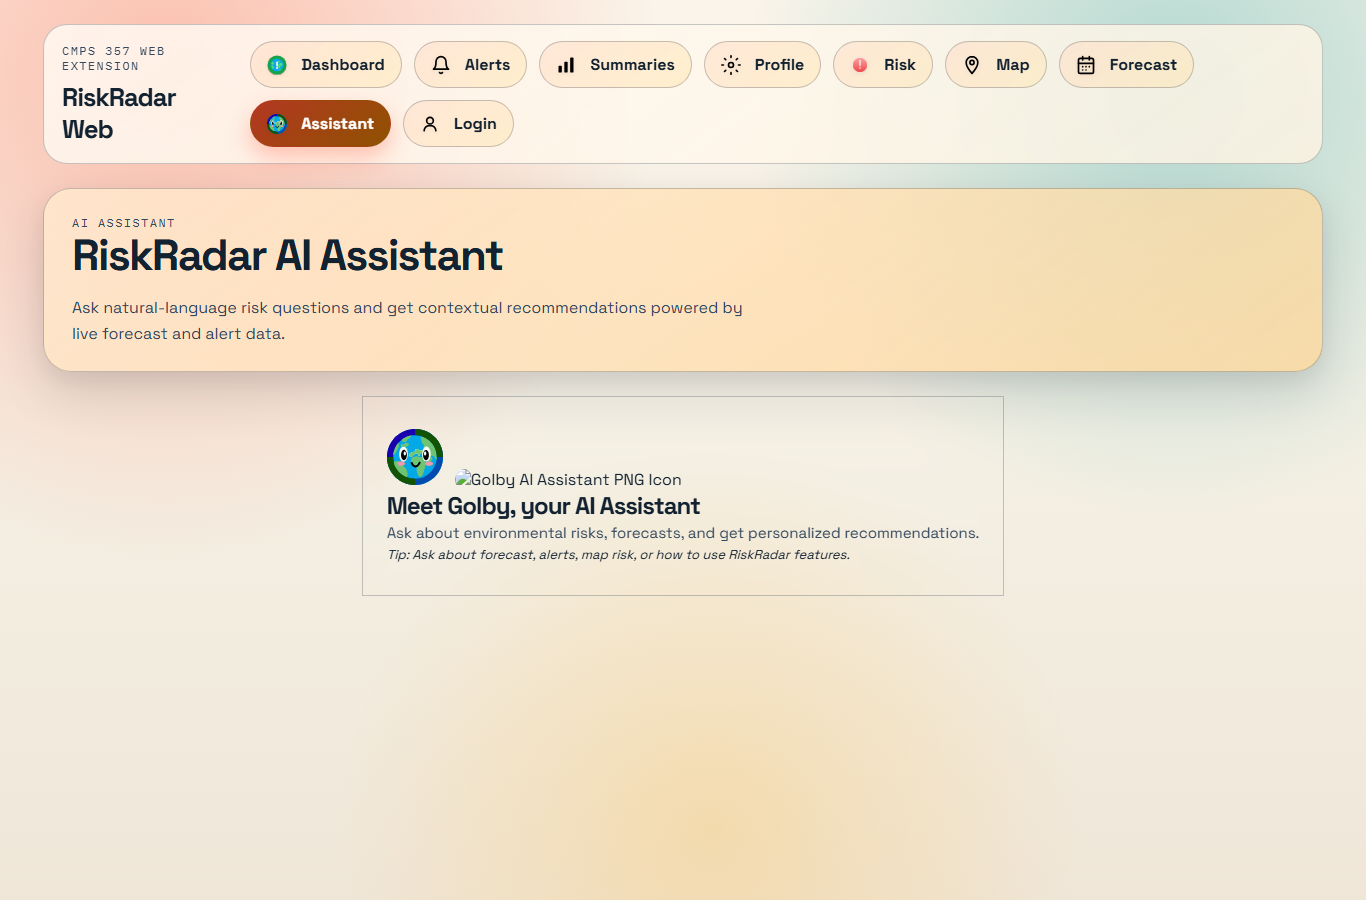
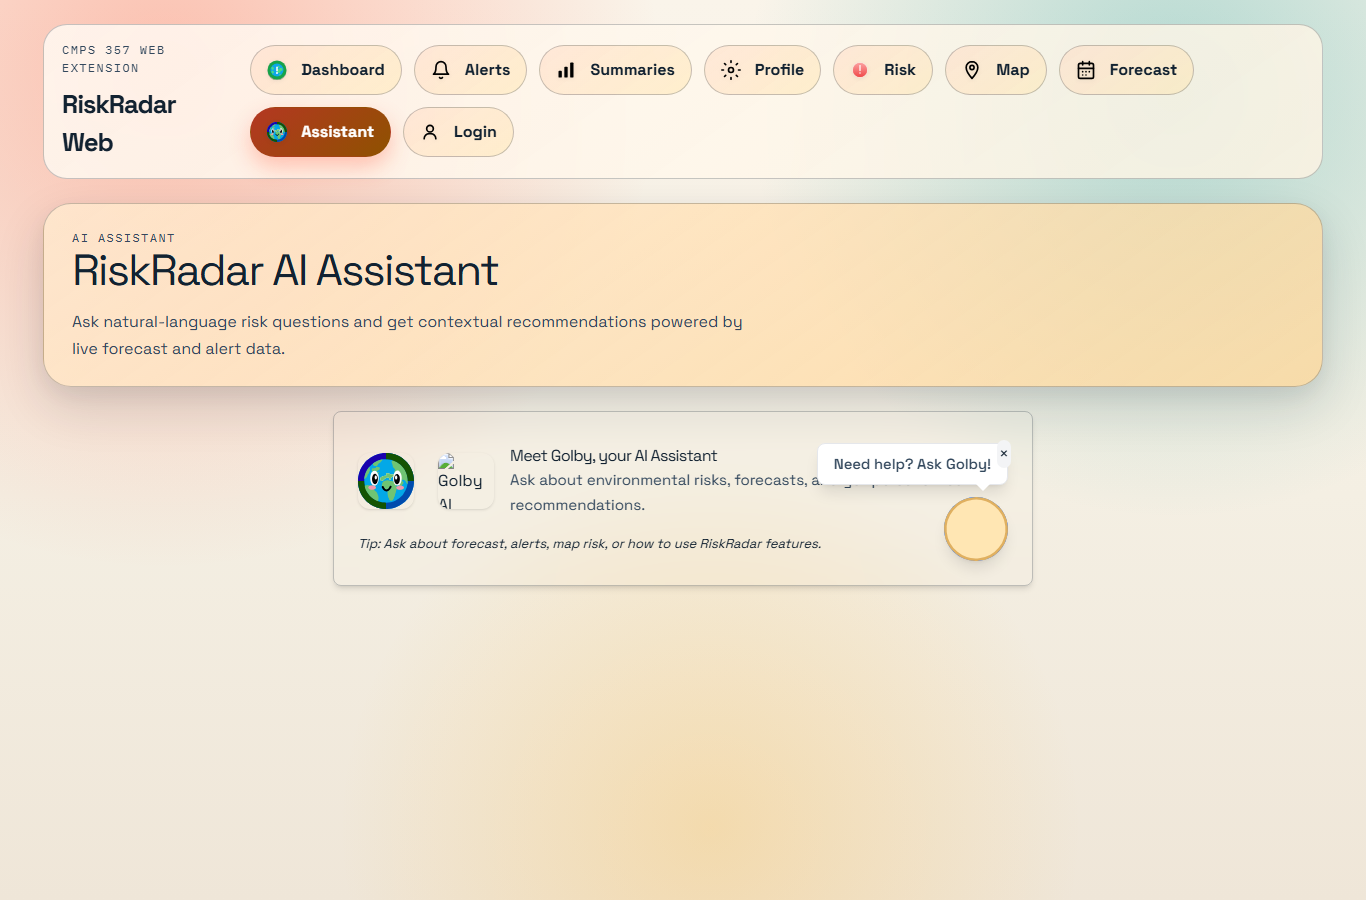
Demo 3

Changed region(s): [[0.0307, 0.0311, 0.9839, 0.4356], [0.246, 0.4667, 0.7379, 0.6533], [0.3997, 0.1556, 0.9839, 0.2489]]

diff --git a/frontend/web/tests/demo/demo_journey.js b/frontend/web/tests/demo/demo_journey.js
@@ -13,6 +13,7 @@ const SESSION_COOKIE_NAME = 'riskradar_session';
 function parseArgs(argv) {
   const args = {
     baseUrl: 'http://localhost:8000',
+    apiBaseUrl: null,
     headless: true,
     pauseOnStep: false,
     screenshots: true,
@@ -23,6 +24,9 @@ function parseArgs(argv) {
     const token = argv[i];
     if (token === '--base-url' && argv[i + 1]) {
       args.baseUrl = argv[i + 1];
+      i += 1;
+    } else if (token === '--api-base-url' && argv[i + 1]) {
+      args.apiBaseUrl = argv[i + 1];
       i += 1;
     } else if (token === '--headless' && argv[i + 1]) {
       args.headless = argv[i + 1] !== 'false';
@@ -125,7 +129,8 @@ async function assertApiResponse(response, label, expectedStatus) {
 }
 
 async function assertAssistantContracts(page, baseUrl, role, userId) {
-  const apiBase = `${baseUrl.replace(/\/$/, '')}/api/v1`;
+  const apiRoot = (baseUrl || '').replace(/\/$/, '');
+  const apiBase = `${apiRoot}/api/v1`;
   const syntheticSession = `demo-${role}-${Date.now()}`;
   const syntheticMessage = `msg-${Date.now()}`;
 
@@ -258,6 +263,7 @@ async function runJourney(options = {}) {
   };
 
   const base = options.baseUrl.replace(/\/$/, '');
+  const apiBase = (options.apiBaseUrl || options.baseUrl).replace(/\/$/, '');
 
   await recordStep(
     { id: 1, slug: 'dashboard', name: 'Dashboard Overview' },
@@ -308,7 +314,7 @@ async function runJourney(options = {}) {
       await stepNavigate(page, { id: 6 }, `${base}/assistant.php`, 'assistant');
 
       await clearSessionCookie(context);
-      await assertAssistantContracts(page, base, 'anonymous', 2);
+      await assertAssistantContracts(page, apiBase, 'anonymous', 2);
 
       const openWidgetButton = page.getByRole('button', { name: 'Open Golby AI Assistant' });
       await openWidgetButton.waitFor({ timeout: 10000 });
@@ -325,7 +331,7 @@ async function runJourney(options = {}) {
       await clearSessionCookie(context);
       await setSessionCookie(context, base, 2);
       await stepNavigate(page, { id: 6 }, `${base}/assistant.php`, 'assistant');
-      await assertAssistantContracts(page, base, 'user', 2);
+      await assertAssistantContracts(page, apiBase, 'user', 2);
 
       await openWidgetButton.waitFor({ timeout: 10000 });
       await openWidgetButton.click();
@@ -376,7 +382,7 @@ async function runJourney(options = {}) {
       await clearSessionCookie(context);
       await setSessionCookie(context, base, 4);
       await stepNavigate(page, { id: 6 }, `${base}/assistant.php`, 'assistant');
-      await assertAssistantContracts(page, base, 'admin', 4);
+      await assertAssistantContracts(page, apiBase, 'admin', 4);
 
       await openWidgetButton.waitFor({ timeout: 10000 });
       await openWidgetButton.click();

diff --git a/backend/main.py b/backend/main.py
@@ -15,7 +15,7 @@ logging.basicConfig(level=logging.INFO, format="%(asctime)s %(name)s %(levelname
 
 
 @asynccontextmanager
-async def lifespan(app: FastAPI):
+async def lifespan(_app: FastAPI):
     # Startup
     init_database()
     scheduler = start_scheduler()